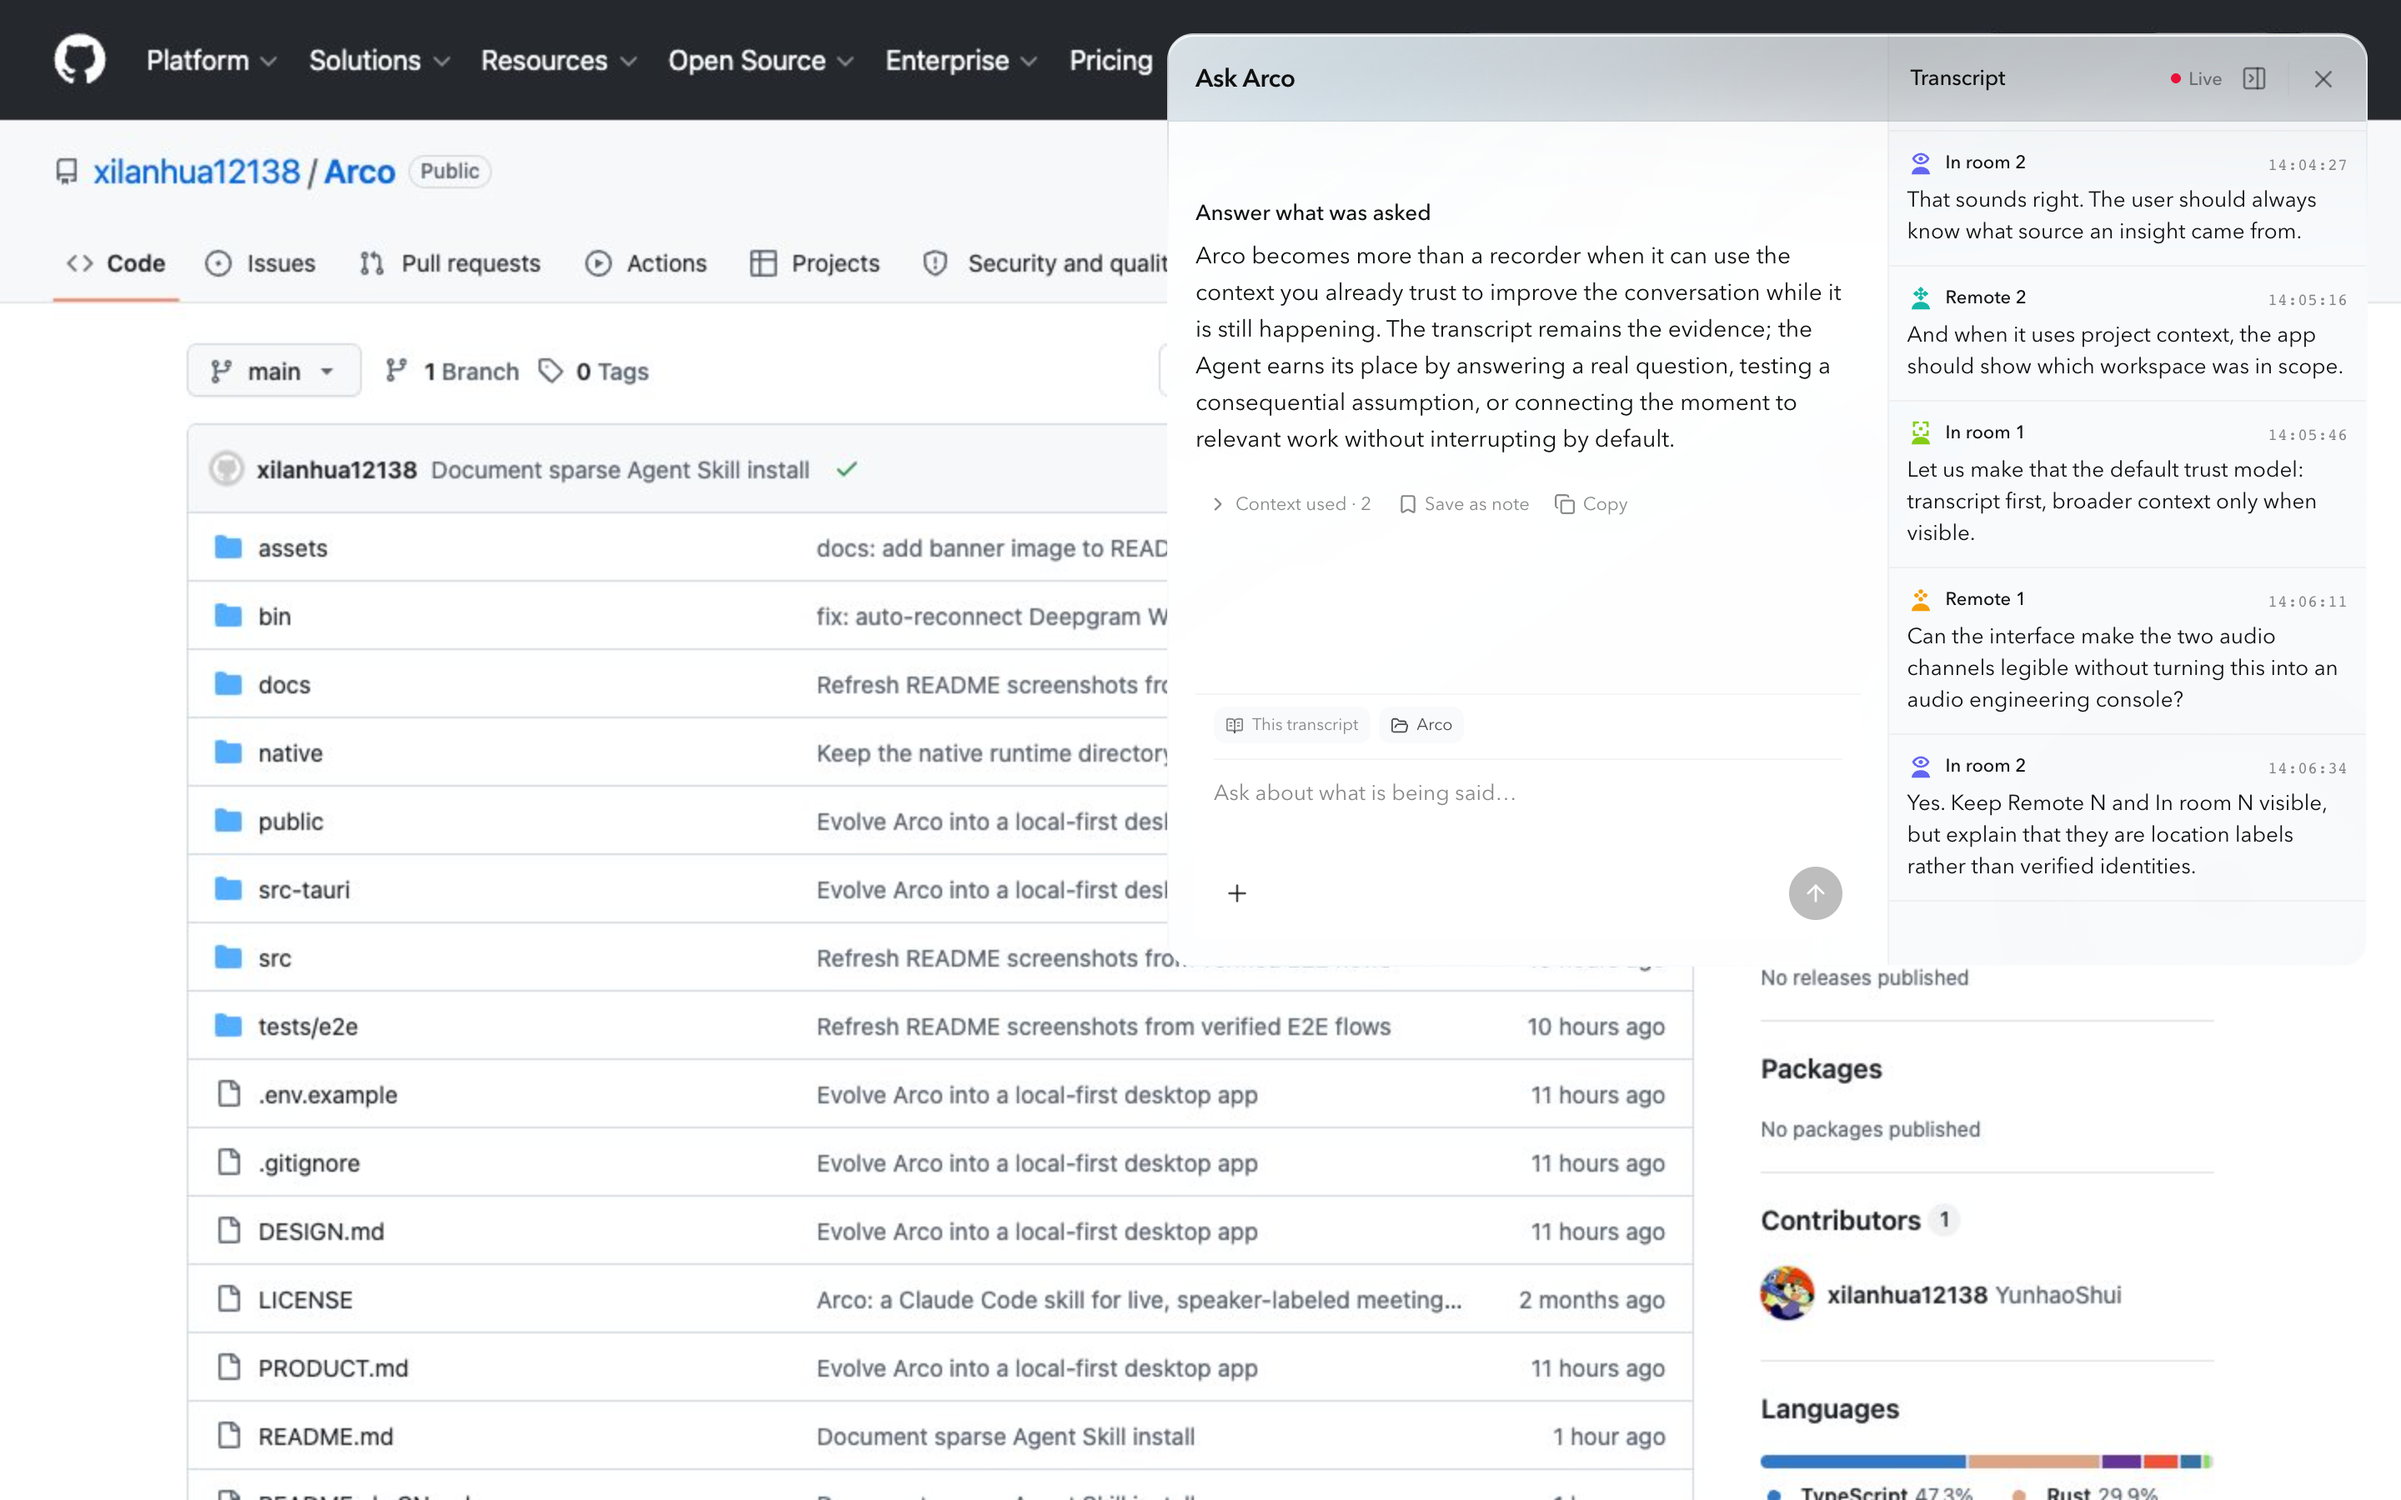
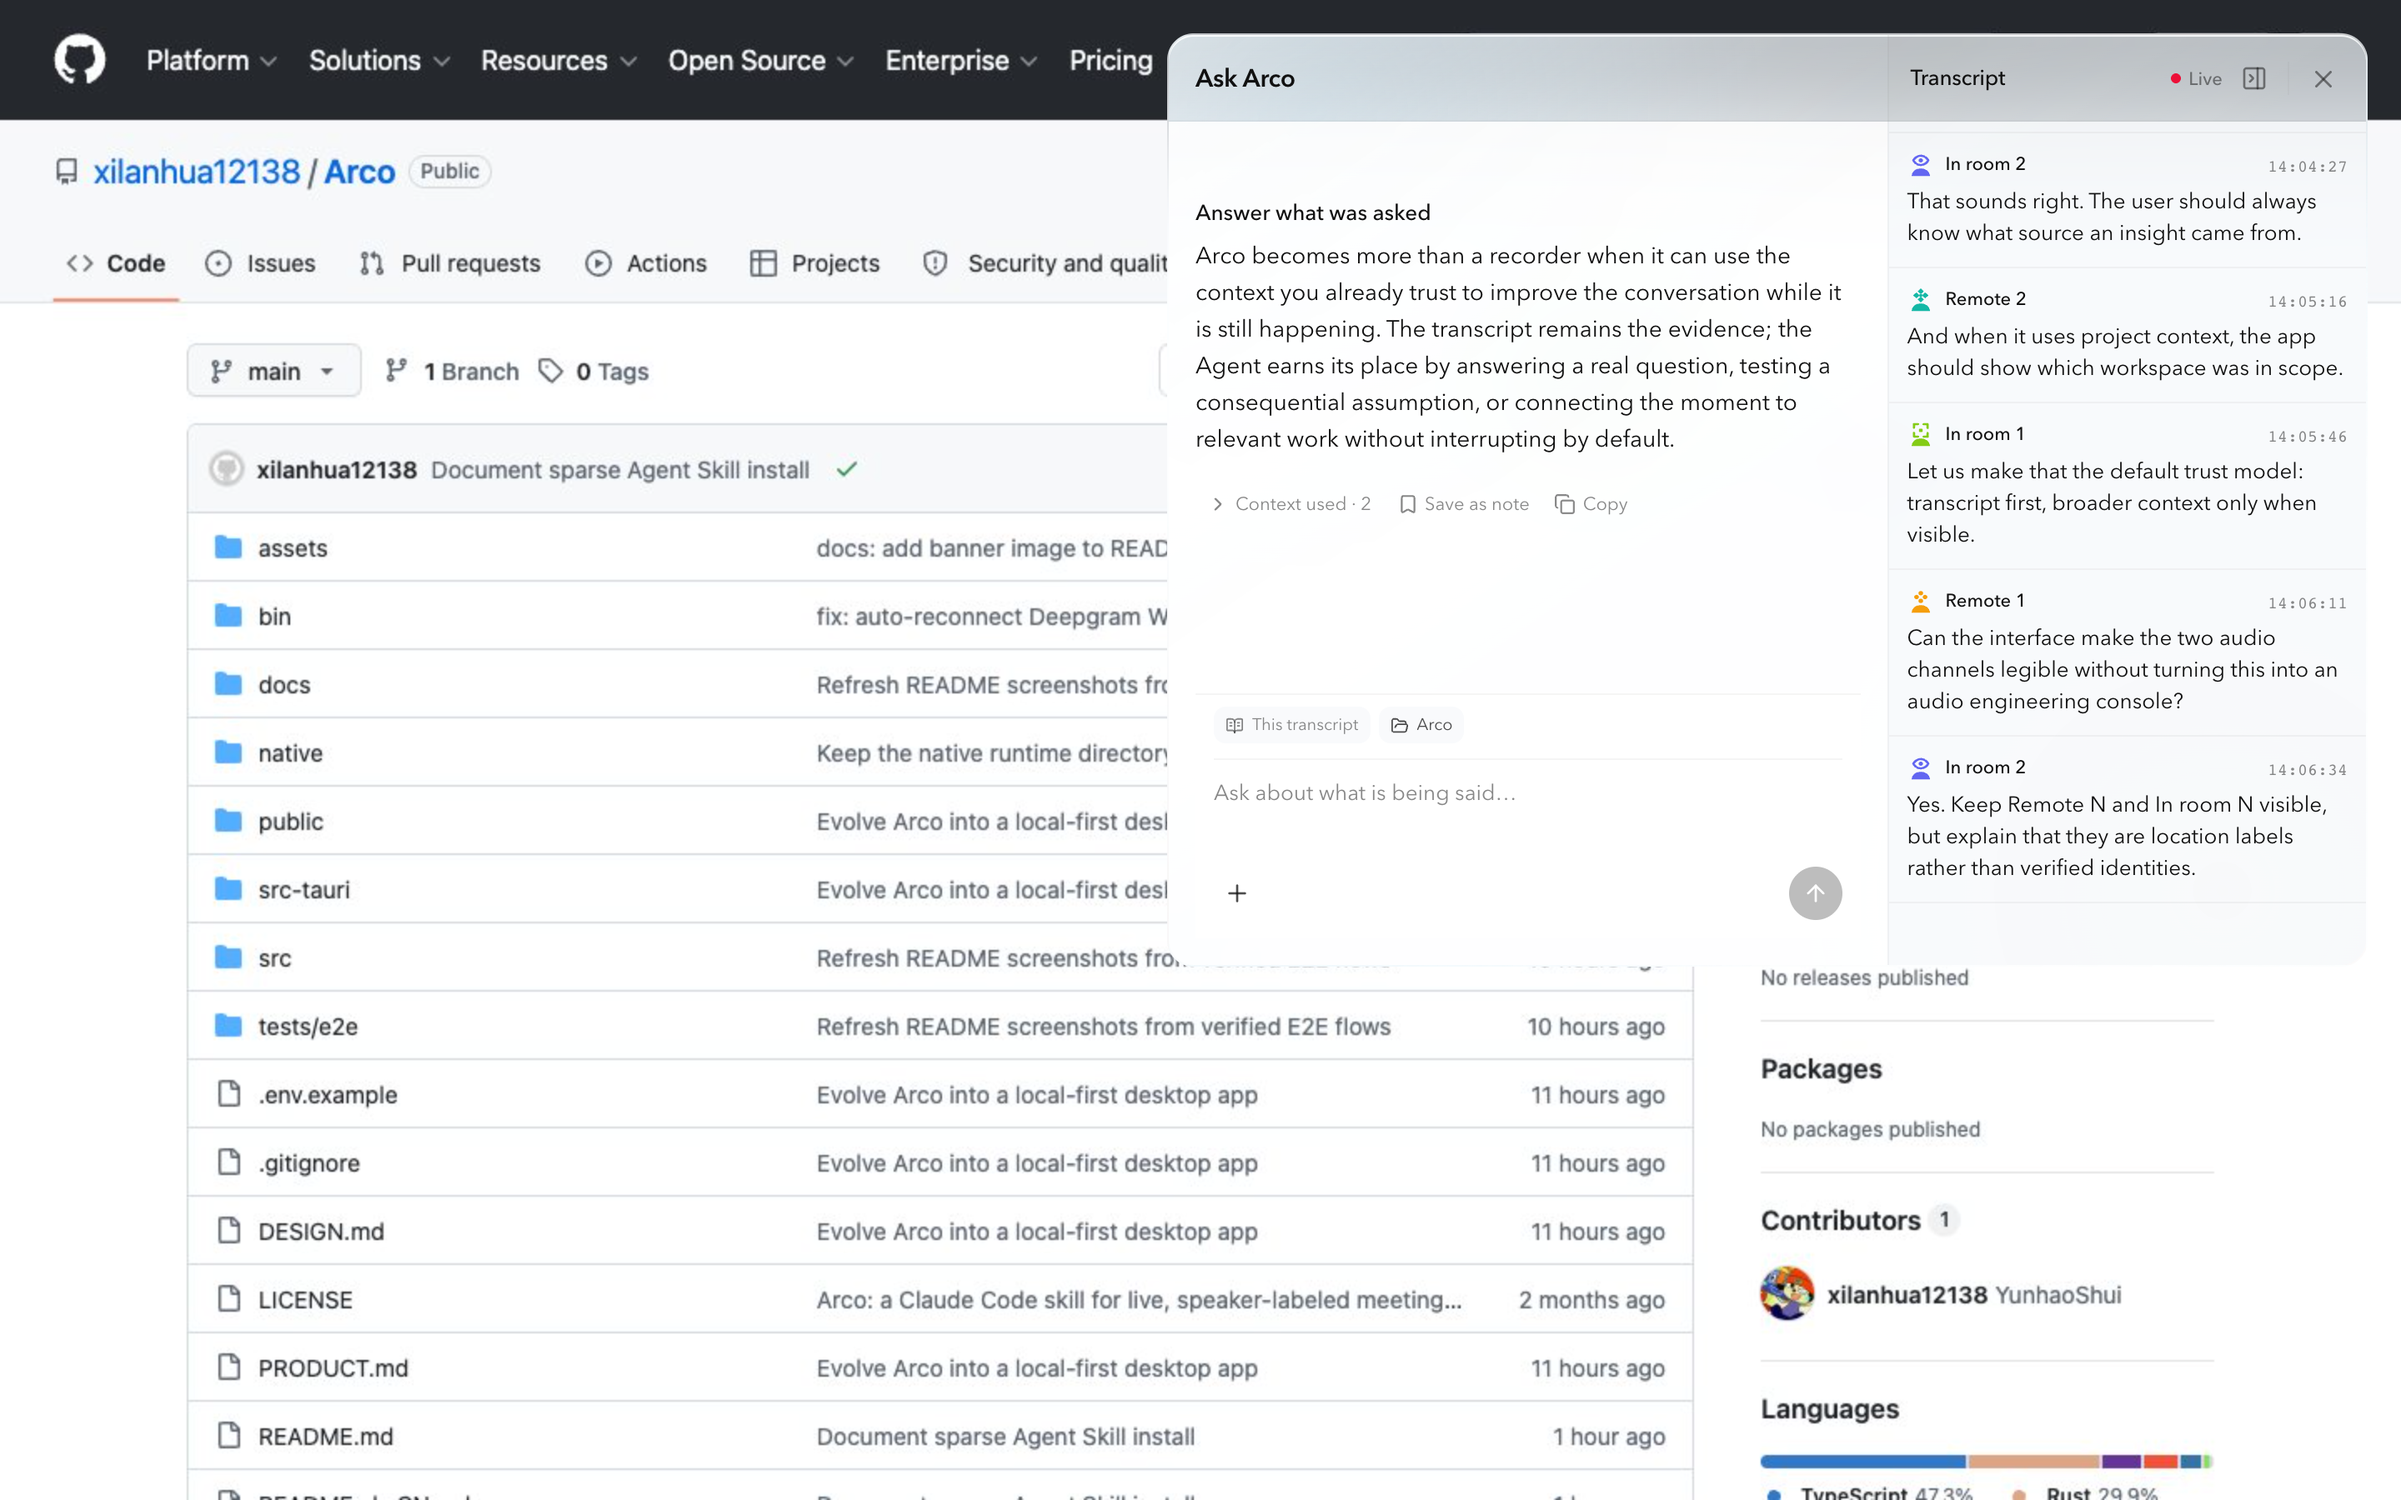
fix: align native Ask Arco overlay

diff --git a/tests/e2e/live-workspace.spec.ts b/tests/e2e/live-workspace.spec.ts
@@ -107,6 +107,29 @@ test('Agent overlay is a focused always-on-top conversation surface', async ({ p
   await expect(overlay).toHaveCSS('width', '720px')
 })
 
+test('native Agent overlay fills its WebView without browser QA offsets', async ({ page }) => {
+  await page.setViewportSize({ width: 720, height: 560 })
+  await page.addInitScript(() => {
+    window.localStorage.setItem('arco.providerConfig', JSON.stringify({
+      setupComplete: true,
+      primary: 'codex',
+      secondary: 'claude',
+    }))
+  })
+  await page.goto('/?surface=agent-overlay&demo=1')
+  await page.evaluate(() => {
+    document.documentElement.dataset.runtime = 'desktop'
+  })
+
+  const overlay = page.getByRole('dialog', { name: 'Ask Arco' })
+  const box = await overlay.boundingBox()
+  expect(box).not.toBeNull()
+  expect(Math.round(box!.x)).toBe(0)
+  expect(Math.round(box!.y)).toBe(0)
+  expect(Math.round(box!.width)).toBe(720)
+  expect(Math.round(box!.height)).toBe(560)
+})
+
 test('global utility surfaces remain light when system appearance is dark', async ({ page }) => {
   await page.setViewportSize({ width: 1280, height: 720 })
   await page.emulateMedia({ colorScheme: 'dark' })

diff --git a/src/surfaces/Surfaces.css b/src/surfaces/Surfaces.css
@@ -332,7 +332,7 @@ html[data-surface="agent-overlay"] #root {
 
 /* Browser QA presents the native-sized surfaces in their intended screen positions. */
 @media (min-width: 700px) {
-  html[data-surface="hud"] .recording-hud {
+  html[data-runtime="browser"][data-surface="hud"] .recording-hud {
     position: fixed;
     left: 50%;
     bottom: 24px;
@@ -341,7 +341,7 @@ html[data-surface="agent-overlay"] #root {
     transform: translateX(-50%);
   }
 
-  html[data-surface="agent-overlay"] .agent-overlay-surface {
+  html[data-runtime="browser"][data-surface="agent-overlay"] .agent-overlay-surface {
     position: fixed;
     top: 20px;
     right: 20px;
@@ -349,5 +349,5 @@ html[data-surface="agent-overlay"] #root {
     height: 560px;
   }
 
-  html[data-surface="agent-overlay"] .agent-overlay-surface[data-transcript="closed"] { width: 432px; }
+  html[data-runtime="browser"][data-surface="agent-overlay"] .agent-overlay-surface[data-transcript="closed"] { width: 432px; }
 }

diff --git a/src/main.tsx b/src/main.tsx
@@ -9,6 +9,7 @@ import { I18nProvider } from './i18n/i18n.ts'
 
 const surface = resolveSurface(window.location.search)
 document.documentElement.dataset.surface = surface
+document.documentElement.dataset.runtime = '__TAURI_INTERNALS__' in window ? 'desktop' : 'browser'
 
 const root = surface === 'hud'
   ? <RecordingHud />
